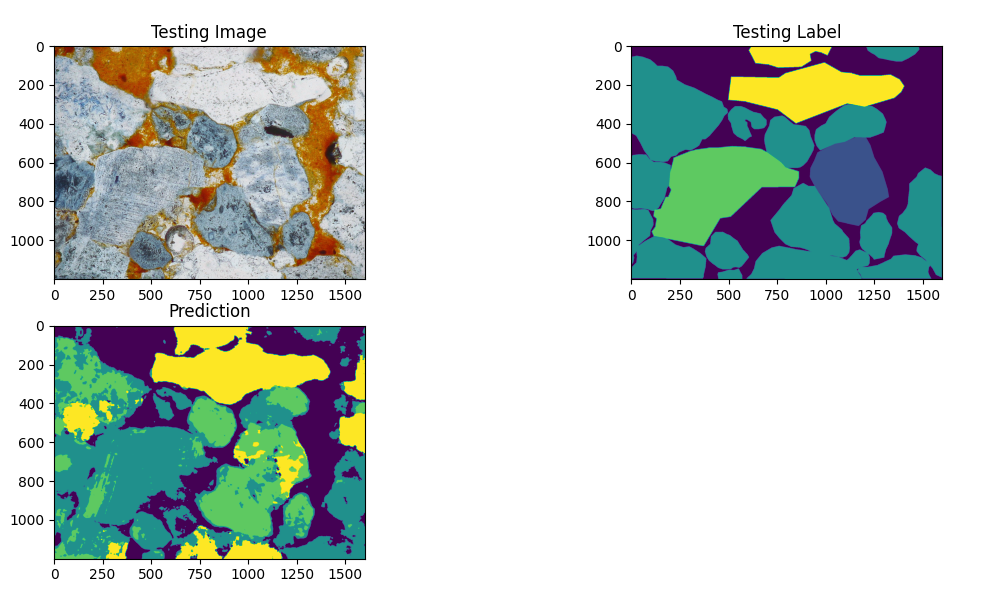
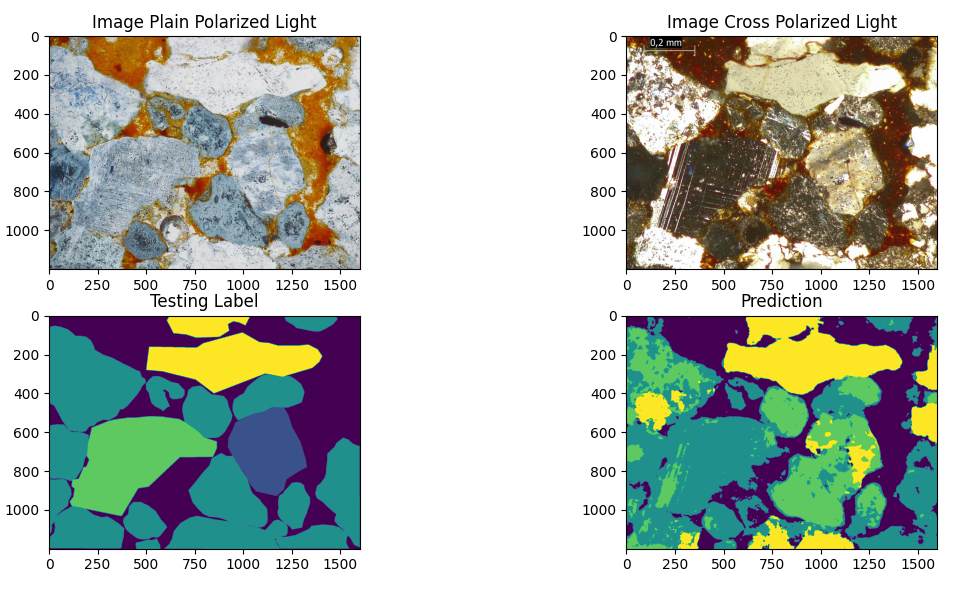
Added prediction images

diff --git a/petrographic_image_predict.py b/petrographic_image_predict.py
@@ -9,9 +9,9 @@ from petrographic_image_utils import rgb_to_2d_label
 scaler = MinMaxScaler()
 patch_size = 400
 n_classes = 5  # Number of classes for segmentation
-image_p_path = 'petrographic_image_dataset/paralelos/7a_paralelos.jpg'
-image_c_path = 'petrographic_image_dataset/cruzados/7a_cruzados.jpg'
-mask_path = 'petrographic_image_dataset/masks/7a_mascara.ome.tiff'
+image_p_path = 'petrographic_image_dataset/paralelos/9a_paralelos.jpg'
+image_c_path = 'petrographic_image_dataset/cruzados/9a_cruzados.jpg'
+mask_path = 'petrographic_image_dataset/masks/9a_mascara.ome.tiff'
 
 image_p = cv2.imread(image_p_path, 1)           # Read parallel nicols image as BGR
 image_c = cv2.imread(image_c_path, 1)           # Read crossed nicols image as BGR
@@ -43,12 +43,15 @@ final_prediction = np.argmax(predictions_smooth, axis=2)
 #Plot and save results
 plt.figure(figsize=(12, 12))
 plt.subplot(221)
-plt.title('Testing Image')
+plt.title('Image Plain Polarized Light')
 plt.imshow(image_p)
 plt.subplot(222)
+plt.title('Image Cross Polarized Light')
+plt.imshow(image_c)
+plt.subplot(223)
 plt.title('Testing Label')
 plt.imshow(mask)
-plt.subplot(223)
+plt.subplot(224)
 plt.title('Prediction')
 plt.imshow(final_prediction)
 plt.show()
